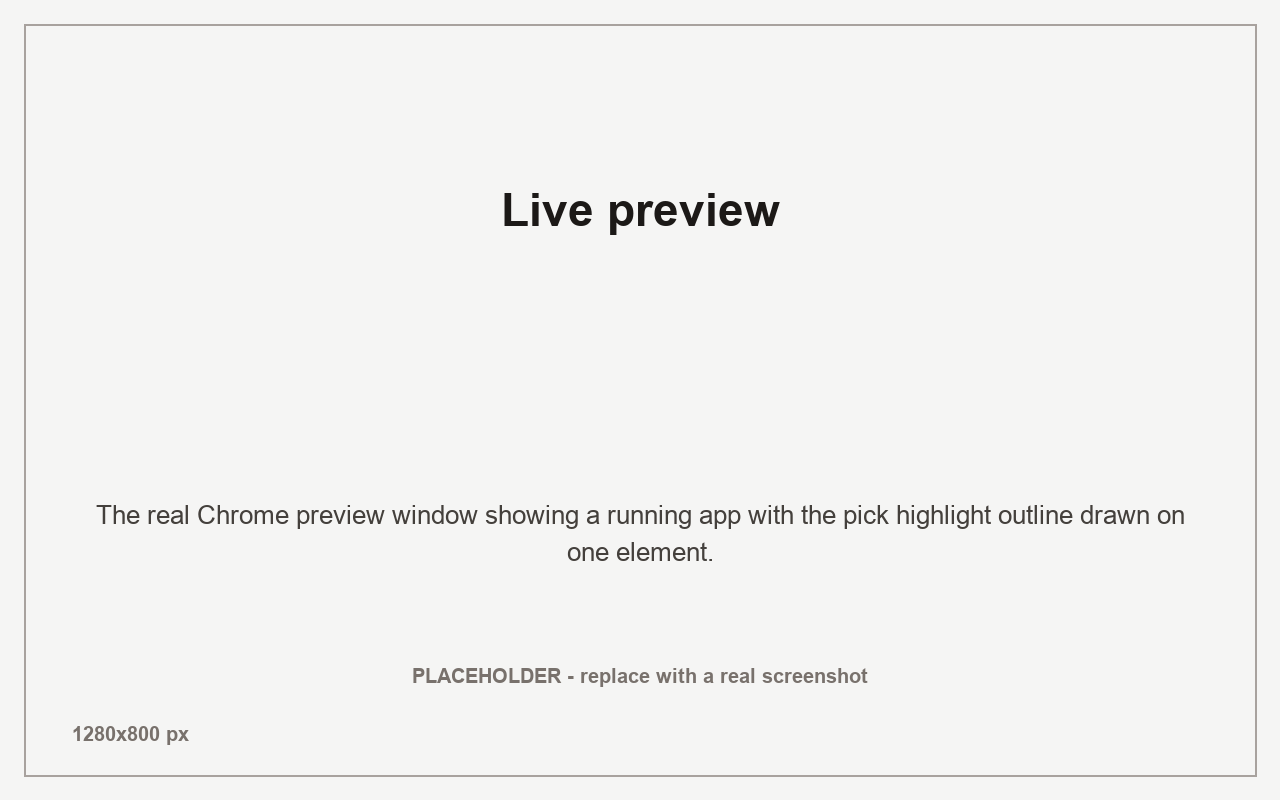
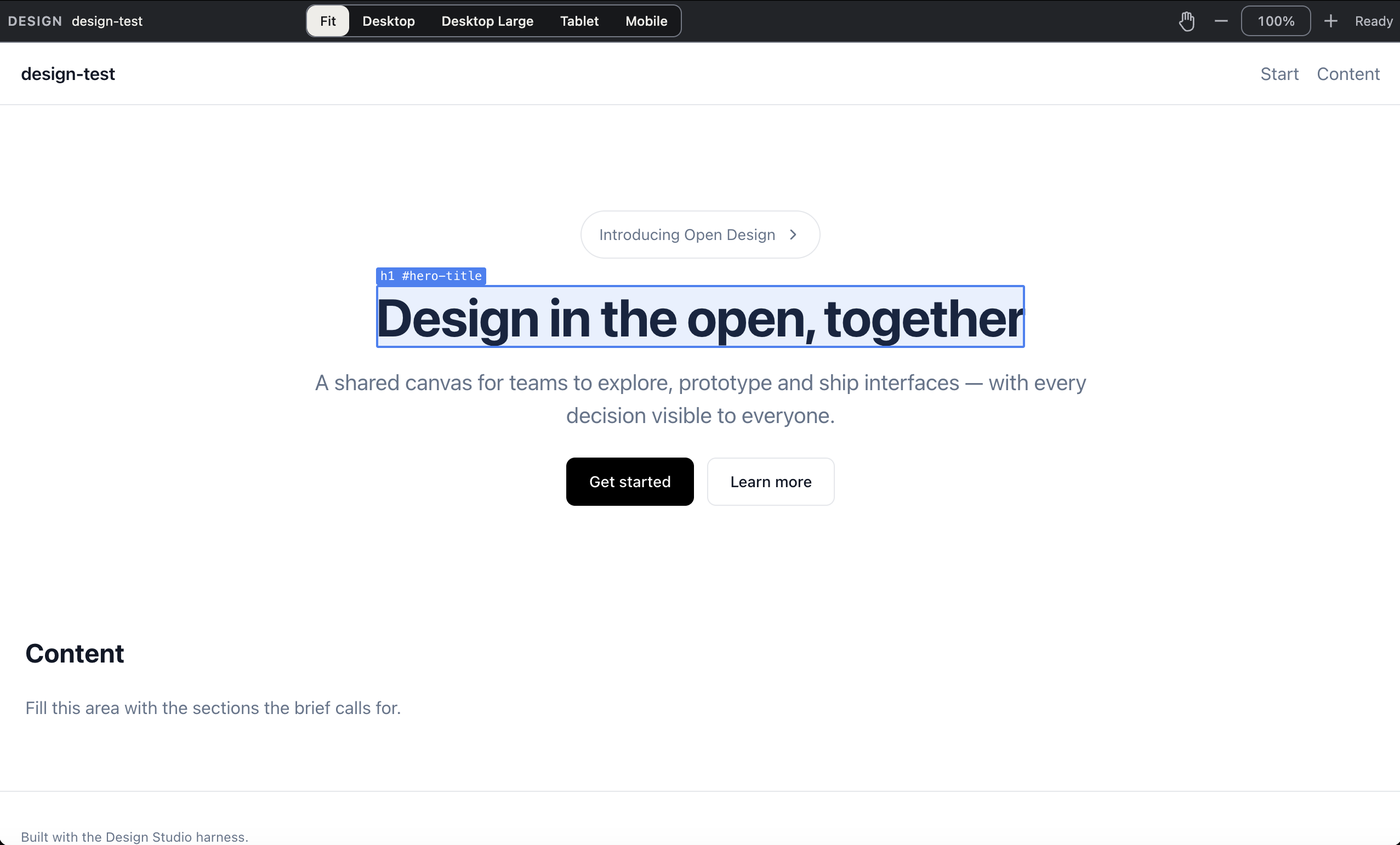
docs: use the three real captures; fill in the repository owner
- README embeds only the committed screenshots (hero, Design Mode status,
  live preview pick); the placeholder note and un-captured image slots are gone
- SHOTLIST.md becomes an inventory: three committed captures plus the wanted,
  not-yet-captured shots
- repository/homepage/bugs, issue-template contact link and the publishing
  runbook point at lastonoga/openchamber-design-studio
- SECURITY.md: private vulnerability reporting via the GitHub Security tab;
  correct the Chrome launch description (headful --app, not headless)
- CI badge switched to the live GitHub Actions badge

diff --git a/docs/screenshots/SHOTLIST.md b/docs/screenshots/SHOTLIST.md
@@ -1,9 +1,8 @@
-# Screenshot shot list
+# Screenshot inventory
 
-Every file below is currently a **placeholder** committed so the README renders.
-Replace each with a real capture at the stated size, then check the box. Use a
-throwaway demo project and public, generic content in every frame — never your own
-real work.
+Three real captures are committed and used by the README. The remaining shots in
+the capture plan are listed at the bottom — they are wanted, but nothing is
+committed for them, so the README embeds only what exists.
 
 ## Global rules — apply to every shot
 
@@ -17,136 +16,44 @@ real work.
   editor tab, or terminal prompt.
 - The OpenChamber account/avatar, notification banners, or bookmarks bar.
 
-**Capture method:** OpenChamber at a 1280×800 content area for desktop shots,
-390×844 for the mobile shot. Crop to that exact size — do not scale up. Prefer the
-light theme unless the shot specifically shows dark; keep one theme across the set.
-Save as PNG (gif for the demo), no transparency, no shadow/mockup frame.
+## Committed captures
 
----
+### hero-design-studio-1280.png
 
-## hero-design-studio-1280.png
+The OpenChamber Design Studio creation home: display headline ("Let's create
+Hi-fi screens"), the prompt composer with its design-system and type chips, the
+working-directory selector, idea cards, and the merged **Your design work** list
+with a design-ready project row (Open sessions / Preview). Dark theme.
 
-- **Size:** 1280×800 (desktop).
-- **Must be visible:** the full-page Design Studio creation home — display
-  headline, the prompt composer with its type chip, and the merged **"Your design
-  work"** section below it containing at least one project row (framed-canvas icon)
-  and one design chat row (speech-bubble icon).
-- **Must NOT be visible:** any real chat title; the sidebar with unrelated
-  sessions; the account menu.
-- **Replace with:** a real capture of the creation page in a fresh, neutral demo
-  project. This is the first image a reader sees — it should be the cleanest one.
+### feature-design-mode-status-1280.png
 
-## feature-design-mode-status-1280.png
+The chat's Work Status panel with the **Design Mode** row: the Start control, the
+toggle (shown OFF), the ⌘-click reference hint, and the surrounding session
+panel (context, project, usage, MCP). Dark theme, 640 px wide.
 
-- **Size:** 1280×800 (desktop).
-- **Must be visible:** the chat's **Work Status** section with the Design Mode row
-  — the Start/Stop control, the Design Mode toggle shown **on**, the session
-  status, and the Cmd/Ctrl-click hint. Crop tight enough that the row is legible.
-- **Must NOT be visible:** model or agent names that identify a personal setup;
-  the message history above the row, if it contains a real project name.
-- **Replace with:** the status row in a demo session, mode toggled on.
+### feature-live-preview-pick-1280.png
 
-## feature-live-preview-pick-1280.png
+The real chromeless Chrome preview window with the Design Studio toolbar
+(Fit / Desktop / Desktop Large / Tablet / Mobile, zoom controls) and a picked
+element highlighted — the `h1 #hero-title` selector label above a blue element
+outline.
 
-- **Size:** 1280×800 (desktop).
-- **Must be visible:** the **real Chrome `--app` window** showing a running dev
-  server (no tab strip, no omnibox), with the OpenChamber Design Studio workspace
-  visible beside it so the relationship is clear.
-- **Must NOT be visible:** the Chrome profile avatar, other browser windows,
-  bookmarks, or the macOS desktop behind it revealing personal files.
-- **Replace with:** a full-screen capture arrangement showing the chromeless window
-  and the workspace together.
+## Capture plan (not yet captured)
 
-## feature-pick-to-reference-1280.png
+Nothing below is committed. When one of these is captured, follow the same rules
+above and embed it in the matching README section.
 
-- **Size:** 1280×800 (desktop).
-- **Must be visible:** a picked element as a **reference chip** on the chat
-  composer, with its selector and captured styles legible, and the live window
-  nearby.
-- **Must NOT be visible:** the element's page URL if it contains a private hostname
-  or an absolute path; any token in a query string.
-- **Replace with:** pick a harmless element (a button or heading) in the demo
-  project and capture the resulting chip.
-
-## feature-harness-rules-1280.png
-
-- **Size:** 1280×800 (desktop).
-- **Must be visible:** the generated `.opencode/plugin/design-studio-harness.ts`
-  open in an editor, with the harness content readable — designer identity,
-  design-system authority, and the verification protocol / mandate.
-- **Must NOT be visible:** the absolute path to the file in a title bar or
-  breadcrumb (crop it out or use a relative-path view); any other open file tabs.
-- **Replace with:** an editor capture scrolled to the rules block.
-
-## feature-design-system-presets-1280.png
-
-- **Size:** 1280×800 (desktop).
-- **Must be visible:** the **preset picker** open — design-system presets grouped
-  by category, with their colour swatches, and the search field.
-- **Must NOT be visible:** anything beyond the picker and its immediate context
-  that could carry private data.
-- **Replace with:** the picker in a demo project, scrolled to show at least two
-  category groups.
-
-## feature-project-config-1280.png
-
-- **Size:** 1280×800 (desktop).
-- **Must be visible:** the project's **`.design-studio.json`** shown beside (or
-  within) the Design Studio workspace — its `url`, `type` and `harness` fields.
-- **Must NOT be visible:** a `url` pointing at a private host, or an absolute
-  filesystem path inside the JSON.
-- **Replace with:** a demo config using `http://localhost:5200` and generic values.
-
-## output-wireframe-1280.png
-
-- **Size:** 1280×800 (desktop).
-- **Must be visible:** a low-fidelity **wireframe** (boxes, labels, flows only) in
-  the live preview.
-- **Must NOT be visible:** final brand colours or a real company's logo.
-- **Replace with:** the wireframe output of the demo checkout-flow session.
-
-## output-hi-fi-1280.png
-
-- **Size:** 1280×800 (desktop).
-- **Must be visible:** a **high-fidelity** static screen — a pricing page or
-  similar — with the full design system applied (tokens, type, colour).
-- **Must NOT be visible:** invented metrics, testimonials, or logos presented as
-  real.
-- **Replace with:** the hi-fi output of a demo session.
-
-## output-prototype-1280.png
-
-- **Size:** 1280×800 (desktop).
-- **Must be visible:** an **interactive prototype** running in the live preview —
-  a dashboard with metrics, filters or charts, showing that it is live.
-- **Must NOT be visible:** real analytics or data from a private system.
-- **Replace with:** the prototype output of a demo session.
-
-## output-deck-1280.png
-
-- **Size:** 1280×800 (desktop).
-- **Must be visible:** a **presentation deck** slide rendered in the preview, with
-  its navigation and print layout visible.
-- **Must NOT be visible:** real quarterly results or internal figures.
-- **Replace with:** the deck output of a demo session, showing a generic slide.
-
-## mobile-status-390.png
-
-- **Size:** 390×844 (mobile).
-- **Must be visible:** the Design Studio status row and composer reflowed for a
-  narrow viewport.
-- **Must NOT be visible:** horizontal overflow cut off mid-element (the shot should
-  show a clean reflow, not a clipped layout); any personal data.
-- **Replace with:** a real mobile-width capture; verify there is no horizontal
-  scroll before saving.
-
-## demo-pick-to-change.gif
-
-- **Size:** 1280×800 (desktop).
-- **Must be visible:** the full loop in motion — Cmd/Ctrl-clicking an element in the
-  live window, the reference chip appearing on the composer, and the agent editing
-  the page as the preview updates.
-- **Must NOT be visible:** cursor moving over secrets; a real project or chat name;
-  a pause long enough to read private content.
-- **Replace with:** a short (5–15s) recording of the demo project, trimmed to the
-  loop, looping cleanly. Keep the file modest — aim well under a few MB.
+- `feature-pick-to-reference-1280.png` — a picked element as a reference chip on
+  the chat composer, selector and captured styles legible.
+- `feature-harness-rules-1280.png` — the generated
+  `.opencode/plugin/design-studio-harness.ts` open in an editor, rules readable.
+- `feature-design-system-presets-1280.png` — the preset picker open, presets
+  grouped by category with colour swatches.
+- `feature-project-config-1280.png` — the project's `.design-studio.json` beside
+  the workspace, `url`/`type`/`harness` fields visible.
+- `output-wireframe-1280.png`, `output-hi-fi-1280.png`,
+  `output-prototype-1280.png`, `output-deck-1280.png` — one capture per design
+  type produced by a demo session, in the live preview.
+- `mobile-status-390.png` — the status row and composer reflowed at 390 px.
+- `demo-pick-to-change.gif` — a short (5–15 s) loop of the full pick-to-change
+  cycle; keep the file well under a few MB.

diff --git a/README.md b/README.md
@@ -7,13 +7,7 @@ what you want changed, and the agent edits the real project while you watch.
 
 [![License: MIT](https://img.shields.io/badge/license-MIT-blue.svg)](LICENSE)
 [![OpenChamber engine](https://img.shields.io/badge/openchamber-%E2%89%A5%202.2.0-4b5563)](package.json)
-<!-- Swap the static CI badge below for the live GitHub Actions badge once the repository has a public remote:
-     [![CI](https://github.com/OWNER/openchamber-design-studio/actions/workflows/ci.yml/badge.svg)](.github/workflows/ci.yml) -->
-[![CI](https://img.shields.io/badge/CI-GitHub%20Actions-2088FF)](.github/workflows/ci.yml)
-
-> Screenshots below are placeholders committed so the page renders. Each one names
-> exactly what it should show in [`docs/screenshots/SHOTLIST.md`](docs/screenshots/SHOTLIST.md);
-> replace them with real captures before publishing.
+[![CI](https://github.com/lastonoga/openchamber-design-studio/actions/workflows/ci.yml/badge.svg)](https://github.com/lastonoga/openchamber-design-studio/actions/workflows/ci.yml)
 
 ![The OpenChamber Design Studio creation page, with the prompt composer, a type chip, and the merged "Your design work" list of design projects and design chats below it.](docs/screenshots/hero-design-studio-1280.png)
 
@@ -120,8 +114,6 @@ outer markup, computed styles and the page URL. The chip's text reaches the mode
 its `data` payload is echoed back byte-for-byte to the extension. Hovering a
 reference row briefly re-flashes the matching element in the live window.
 
-![A picked element shown as a reference chip on the chat composer, next to its selector and captured styles.](docs/screenshots/feature-pick-to-reference-1280.png)
-
 ### The harness runs inside your project
 
 When Design Mode turns on for a project, the extension writes a project-local
@@ -133,8 +125,6 @@ extension composes a prompt. The generated file imports nothing and adds no
 dependency; the extension never overwrites a file it did not generate, and writing
 it is a deliberate, visible side effect.
 
-![The generated design-studio-harness.ts plugin open in the editor, showing the design-system authority and verification protocol it injects into every turn.](docs/screenshots/feature-harness-rules-1280.png)
-
 ### Design systems and presets
 
 The workflow is built around a project's own **DESIGN.md** and **tokens.css**: when
@@ -144,8 +134,6 @@ catalog of **22 design-system presets** across 13 categories (Modern & Minimal,
 Professional & Corporate, Developer Tools, and more) with a searchable preset
 picker. A preset supplies semantic token values the scaffold and the harness can
 build on.
-
-![The Design Studio preset picker open, listing design-system presets grouped by category with colour swatches.](docs/screenshots/feature-design-system-presets-1280.png)
 
 ### Project config and scaffolding
 
@@ -158,39 +146,12 @@ loopback dev-server port from the range 5200–5999 (starting at a random offset
 parallel inits rarely collide), starts the dev server and writes the harness
 plugin — before the agent session even starts.
 
-![The .design-studio.json configuration panel open beside a design project, showing its url, type and harness settings.](docs/screenshots/feature-project-config-1280.png)
-
 ### What it produces
 
 Design sessions target one of several types — a wireframe, hi-fi screens, an
 interactive prototype or a presentation deck — and the merged **Your design work**
 list on the creation page keeps every registered design project and design chat in
 one place, each row told apart by a small type icon.
-
-Wireframe:
-
-![A low-fidelity wireframe of a checkout flow, boxes and labels only, rendered in the live preview.](docs/screenshots/output-wireframe-1280.png)
-
-Hi-fi screens:
-
-![A high-fidelity product pricing page with three tiers and a feature comparison, rendered in the live preview.](docs/screenshots/output-hi-fi-1280.png)
-
-Interactive prototype:
-
-![An interactive dashboard prototype with live metrics, filters and charts, rendered in the live preview.](docs/screenshots/output-prototype-1280.png)
-
-Presentation deck:
-
-![An HTML presentation deck slide rendered in the live preview, with its own navigation and print layout.](docs/screenshots/output-deck-1280.png)
-
-On a narrow viewport the same surfaces reflow down to the chat row and the
-composer:
-
-![The Design Studio status row and composer on a 390-pixel mobile viewport.](docs/screenshots/mobile-status-390.png)
-
-The whole point-to-change loop, end to end:
-
-![A screen recording of the pick-to-change loop: Cmd-clicking an element in the live preview, the reference appearing on the composer, and the agent editing the page.](docs/screenshots/demo-pick-to-change.gif)
 
 ### Not yet / Roadmap
 

diff --git a/SECURITY.md b/SECURITY.md
@@ -2,15 +2,11 @@
 
 ## Reporting a vulnerability
 
-Report suspected security issues **privately** to:
-
-```
-SECURITY_CONTACT_PLACEHOLDER
-```
-
-> **Maintainer note:** `SECURITY_CONTACT_PLACEHOLDER` above must be replaced with
-> a real, monitored contact address before this repository is published. The
-> project intentionally does not ship a real email or handle in the source tree.
+Report suspected security issues **privately** through GitHub's private
+vulnerability reporting: open the repository's **Security** tab and use
+**Report a vulnerability** ("Privately report a security vulnerability"). This
+keeps the report and any discussion out of the public issue tracker until a fix
+is ready.
 
 Please do not open a public issue for a suspected vulnerability. Include:
 
@@ -33,9 +29,9 @@ Design Studio is an OpenChamber extension, and it asks for trust. Stated plainly
 - Its **service binds a loopback HTTP port** (`127.0.0.1`) and authenticates
   requests with a **bearer token**. The service runs with your full user access
   and no sandbox.
-- It **drives a real Google Chrome** (headless, launched with a throwaway
-  profile) **with your own user rights**, and injects scripts into the pages it
-  opens, such as the Cmd/Ctrl-click pick script.
+- It **drives a real Google Chrome** (a chromeless `--app` window with a
+  throwaway profile) **with your own user rights**, and injects scripts into the
+  pages it opens, such as the Cmd/Ctrl-click pick script.
 
 Treat it as you would any tool that runs code on your machine: install it only
 from a source you trust.

diff --git a/docs/publishing.md b/docs/publishing.md
@@ -63,7 +63,7 @@ theirs, not ours. To ask, email `feedback@openchamber.dev` with the subject
 
 ```text
 Extension name: OpenChamber Design Studio
-Repository URL: https://github.com/OWNER_PLACEHOLDER/openchamber-design-studio
+Repository URL: https://github.com/lastonoga/openchamber-design-studio
 Category: Tools
 What it does: A design harness for OpenChamber. It brings your running app into
 the chat as a live browser you can point at, and turns what you click into chat
@@ -74,9 +74,6 @@ scaffolding, and a .design-studio.json project config.
 ```
 
 `Category` is one of `Tools`, `Usage`, `Themes`.
-
-> **Maintainer note:** `OWNER_PLACEHOLDER` in the repository URL above must be
-> replaced with the real GitHub owner before sending.
 
 ## 5. Reference docs
 
